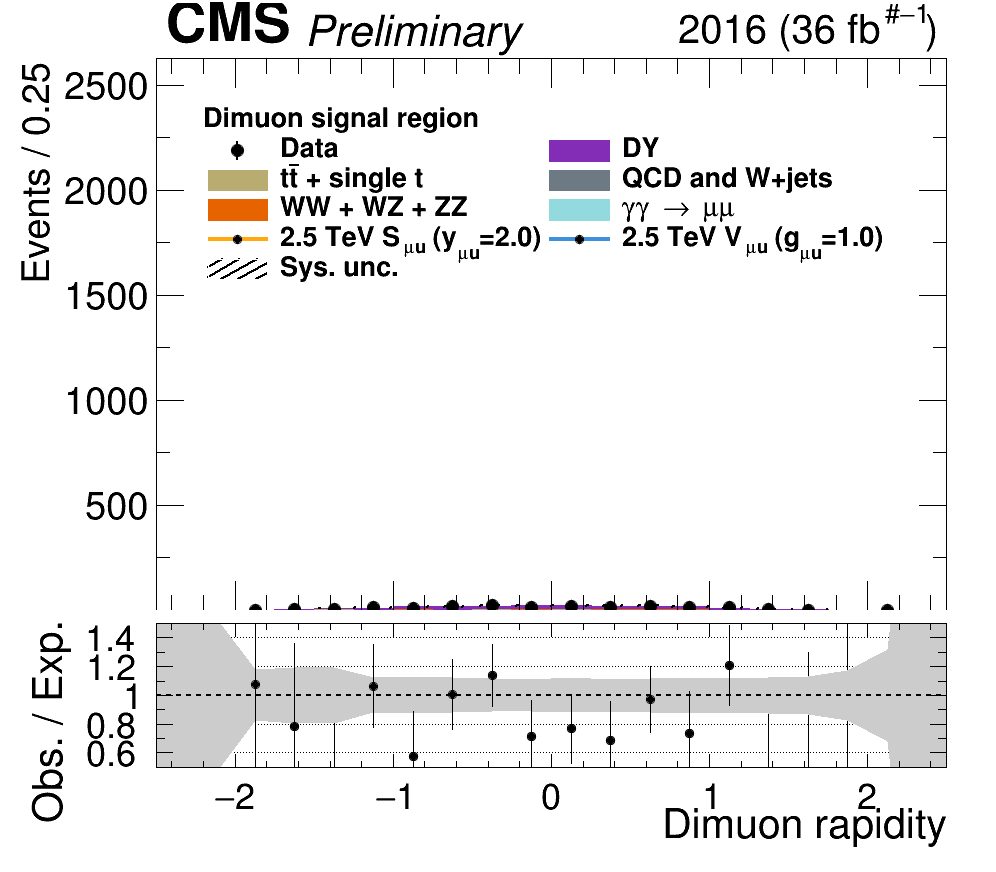
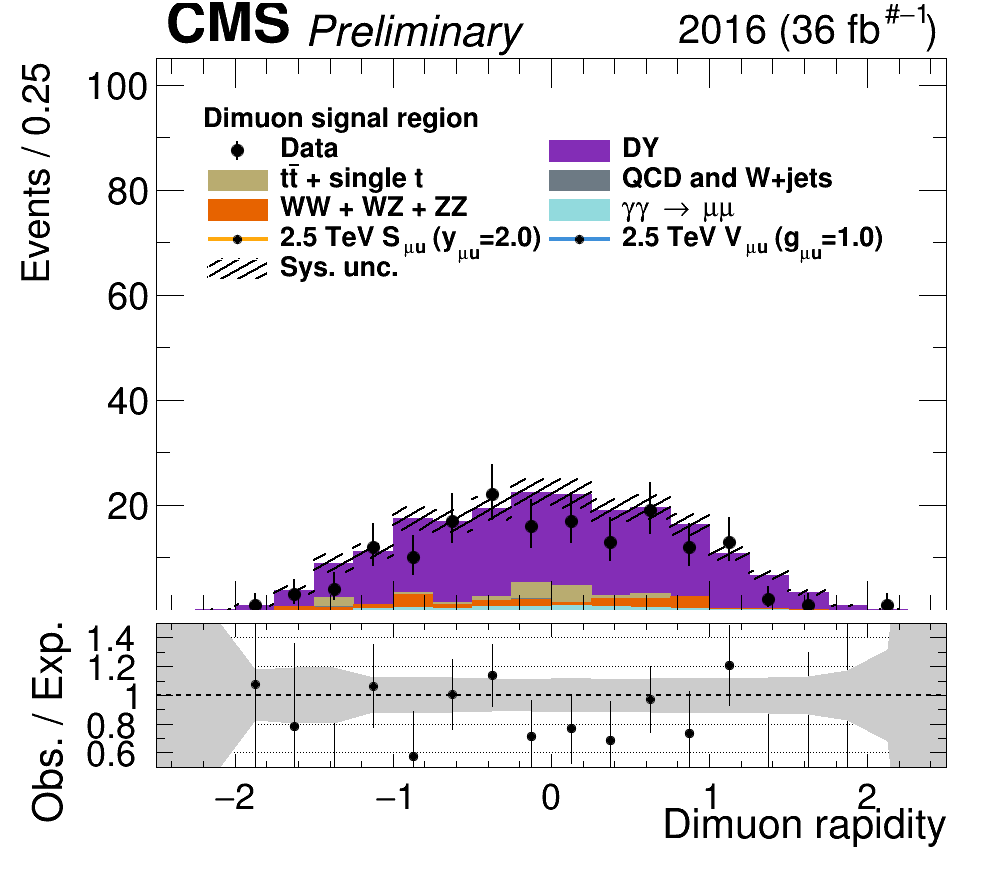
rapidity per year with adjusted ymax

diff --git a/plots/MuMu/draw_cmp_from_saved.C b/plots/MuMu/draw_cmp_from_saved.C
@@ -47,7 +47,7 @@ void draw_cmp_from_saved(){
     TFile *fin = new TFile(fin_name, "READ");
     gStyle->SetOptStat(0);
     gROOT->SetBatch(1);
-    int year_start = 2016;
+    int year_start = 2018;
     int year_stop = 2018;
 
     for(int year = year_start; year <= year_stop; year++){
@@ -447,9 +447,9 @@ dy_cost->SetLineColor(DY_color);
     //LQu_m->Draw("hist  same");
     //LQu_vec_m->Draw("hist  same");
     sprintf(plt_file, "%sMuMu%s_m_cmp_1TeV.png", plot_dir, file_label );
-    if(write_out) c_m->Print(plt_file);
+    //if(write_out) c_m->Print(plt_file);
     sprintf(plt_file, "%sMuMu%s_m_cmp_1TeV.pdf", plot_dir, file_label );
-    if(write_out) c_m->Print(plt_file);
+    //if(write_out) c_m->Print(plt_file);
 
     
     //float x_start_c = 0.57 - x_size/2;
@@ -483,9 +483,9 @@ dy_cost->SetLineColor(DY_color);
     //LQu_cost->Draw("hist  same");
     //LQu_vec_cost->Draw("hist  same");
     sprintf(plt_file, "%sMuMu%s_cost_cmp_1TeV.png", plot_dir, file_label);
-    if(write_out) c_cost->Print(plt_file);
+    //if(write_out) c_cost->Print(plt_file);
     sprintf(plt_file, "%sMuMu%s_cost_cmp_1TeV.pdf", plot_dir, file_label);
-    if(write_out) c_cost->Print(plt_file);
+    //if(write_out) c_cost->Print(plt_file);
 
 
     leg3->SetX1(x_start_c);
@@ -496,7 +496,7 @@ dy_cost->SetLineColor(DY_color);
     int n_rap_bins = 20;
     float rap_bin_size = 5. / n_rap_bins;
 
-    hmax = 200;
+    hmax = 100;
     // if(year == 2016)
     //     hmax *= 0.25;
     // if(year == 2017)
@@ -511,8 +511,8 @@ dy_cost->SetLineColor(DY_color);
     //p_rap->cd();
     //LQu_rap->Draw("hist  same");
     //LQu_vec_rap->Draw("hist  same");
-    sprintf(plt_file, "%sMuMu%s_rap_cmp_1TeV.png", plot_dir, file_label);
+    sprintf(plt_file, "%sMuMu%s_rap_cmp_2018_1TeV.png", plot_dir, file_label);
     if(write_out) c_rap->Print(plt_file);
-    sprintf(plt_file, "%sMuMu%s_rap_cmp_1TeV.pdf", plot_dir, file_label);
+    sprintf(plt_file, "%sMuMu%s_rap_cmp_2018_1TeV.pdf", plot_dir, file_label);
     if(write_out) c_rap->Print(plt_file);
 }
